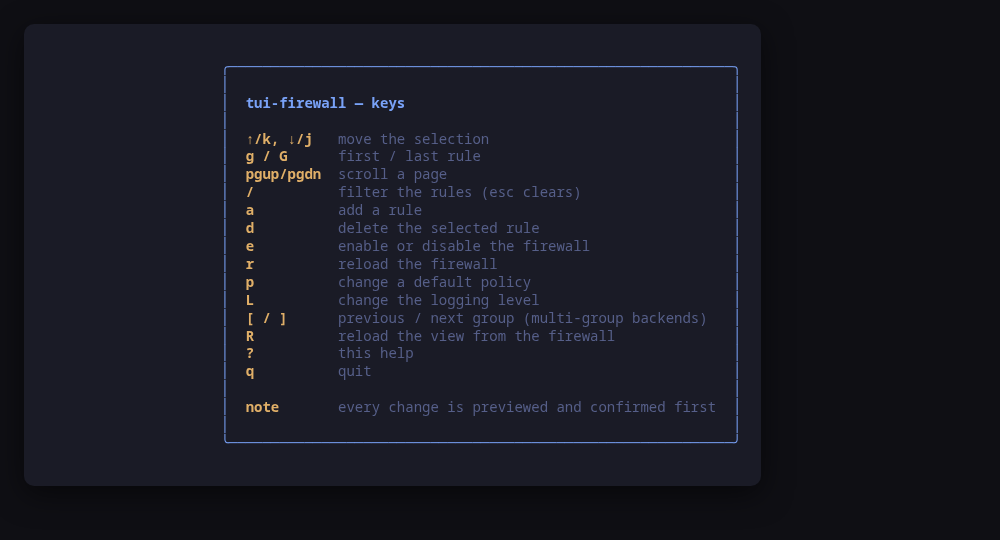
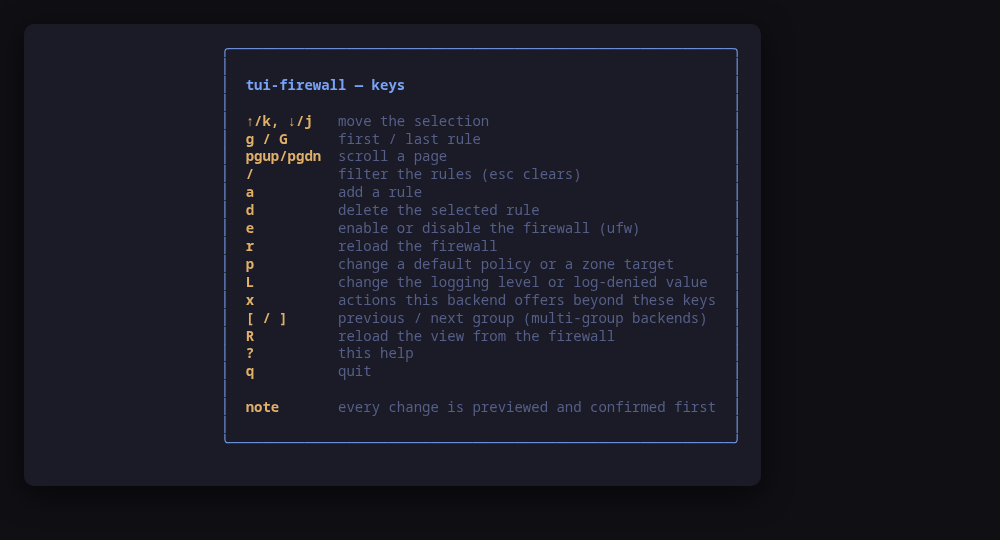
Document firewalld, and screenshot it
tool.json gains the firewalld backend block, so the binary probes its
version the way it already probes ufw's, and the README's compatibility
table is generated from the same place. The minimum is 0.9, the release that
introduced policy objects and intra-zone forwarding; everything else this
backend uses predates it, so there is nothing above the minimum worth a
feature gate. Two version notes are real and stay: firewalld 2.0.0 printed
the same settings for every zone in `--permanent --list-all-zones`, which is
exactly the read the runtime/permanent comparison depends on, and 2.2
removed the lockdown feature.

The demo alternates rather than replaces: `--demo` is still ufw, and
`--demo=firewalld` is an in-memory firewalld, so the screenshots cover both.
The two new frames are the ones only firewalld has — a zone with every entry
kind and its runtime/permanent markers, and the actions menu.

Claude-Session: https://claude.ai/code/session_0149Bf2QcorehfhYNNg27h5j

Changed region(s): [[0.217, 0.0889, 0.744, 0.563]]

diff --git a/README.md b/README.md
@@ -1,11 +1,15 @@
 <img src="assets/logo.png" alt="tui-firewall" width="240">
 
-A terminal UI for the Linux firewall. It shows the rules you actually have, and
-**previews the exact command line of every change before running it**.
+A terminal UI for the Linux firewall — **ufw** and **firewalld** — that shows
+the rules you actually have and **previews the exact command line of every
+change before running it**.
 
-`ufw` has no TUI: you get the CLI, or Gufw if you have a desktop. `tui-firewall`
+Neither firewall has a TUI: you get the CLI, or a desktop GUI. `tui-firewall`
 fills the gap on a server or a tiling desktop, in the
-[Omarchy](https://omarchy.org) visual style.
+[Omarchy](https://omarchy.org) visual style. It picks the backend your machine
+actually runs, and the screen is built from what that backend can do — one rule
+list and three default policies for ufw, one group per zone with its target for
+firewalld.
 
 ![Rules table](docs/screenshots/tui-firewall-main.png)
 
@@ -110,11 +114,15 @@ you quit.
 ## Try it without root
 
 ```sh
-tui-firewall --demo
+tui-firewall --demo             # an in-memory ufw
+tui-firewall --demo=firewalld   # an in-memory firewalld
 ```
 
 `--demo` runs against an in-memory sample firewall. Every key works, every
-command is built and previewed for real, and nothing touches your system.
+command is built and previewed for real, and nothing touches your system. The
+two demos are the two real backends over fake output, not two skins: the
+firewalld one parses firewalld-shaped text with the same parser and builds its
+commands with the same builder.
 
 ## Every change is previewed
 
@@ -128,9 +136,11 @@ is what executes.
 
 ```sh
 tui-firewall                      # drive the real firewall
-tui-firewall --demo               # sample data, no privileges needed
+tui-firewall --demo               # sample ufw data, no privileges needed
+tui-firewall --demo=firewalld     # sample firewalld data
 tui-firewall --check              # read the firewall, print JSON, exit
 tui-firewall --backend ufw        # skip autodetection
+tui-firewall --backend firewalld
 tui-firewall --theme ~/mytheme/colors.toml
 tui-firewall --sudo ""            # run the firewall command directly (as root)
 tui-firewall --version
@@ -156,18 +166,24 @@ $ sudo -n tui-firewall --check | head -8
 ```
 
 It exists so a test can assert on what the tool *parsed* rather than on what it
-painted — for instance that the rule count matches `ufw status numbered`, which
-is what catches a parser regression. On a machine running firewalld it exits
-non-zero with "not implemented yet", because that backend is still a stub.
+painted — for instance that the rule count matches `ufw status numbered`, or
+that a port added to the runtime configuration alone is reported as
+`"Note": "runtime only"`, which is what catches a parser regression.
+
+The report also carries a `backends` block naming every backend this tool
+knows and what the detector saw of it, so "firewalld was chosen" is
+distinguishable from "ufw is not installed" without running the detection
+again. The version is probed for the selected backend only: probing the other
+would run a binary nobody asked this tool to touch.
 
 [tui-lab](https://github.com/tui-tools/tui-lab) uses it to test this tool
 against real firewalls on Ubuntu, Fedora and Omarchy Server; the assertions live
 in [`test/smoke.sh`](test/smoke.sh).
 
-`tui-firewall` needs root to change anything. When it is not running as root it
-uses `sudo -n`, which never prompts: run `sudo -v` in another terminal first, or
-start `tui-firewall` with sudo. If neither `ufw` nor `sudo` is available, it
-says so and points at `--demo`.
+`tui-firewall` needs root to change anything, and to read anything on ufw. When
+it is not running as root it uses `sudo -n`, which never prompts: run `sudo -v`
+in another terminal first, or start `tui-firewall` with sudo. If neither
+firewall nor `sudo` is available, it says so and points at `--demo`.
 
 ## Keys
 
@@ -179,11 +195,12 @@ says so and points at `--demo`.
 | `/` | Filter rules (matches any column; `esc` clears) |
 | `a` | Add a rule |
 | `d` | Delete the selected rule |
-| `e` | Enable or disable the firewall |
+| `e` | Enable or disable the firewall (ufw only) |
 | `r` | Reload the firewall |
-| `p` | Change a default policy |
-| `L` | Change the logging level |
-| `[` / `]` | Previous / next group (multi-group backends only) |
+| `p` | Change a default policy (ufw) or a zone target (firewalld) |
+| `L` | Change the logging level (ufw) or the log-denied value (firewalld) |
+| `x` | Actions this backend offers beyond these keys |
+| `[` / `]` | Previous / next group — the firewalld zones and policy objects |
 | `R` | Re-read the firewall |
 | `?` | Help |
 | `q` | Quit |
@@ -198,30 +215,114 @@ text field, `esc` cancels.
 
 ![Help](docs/screenshots/tui-firewall-help.png)
 
+## firewalld
+
+![A firewalld zone](docs/screenshots/tui-firewall-firewalld.png)
+
+A firewalld zone holds several species of entry at once, so each row carries
+its **kind** — service, port, protocol, source port, forward port, bound
+source, assigned interface, masquerading, intra-zone forwarding, ICMP block,
+rich rule. The kind is what decides which flag removes it, which is why it is
+shown rather than flattened away.
+
+### Runtime and permanent, side by side
+
+firewalld keeps two configurations: the one enforced right now and the one that
+survives a reload or a reboot. They routinely differ — an interface
+NetworkManager assigned, a port someone added without `--permanent`, a change
+made permanently and not yet reloaded. `tui-firewall` reads both
+(`--list-all-zones` and the same with `--permanent`) and marks the difference in
+a **WHERE** column: nothing when an entry is in both, `runtime only` or
+`permanent only` when it is not.
+
+That also decides what a delete does. Removing an entry that exists in both
+issues both commands; removing one that exists in the runtime only issues the
+runtime command alone, because the permanent form would simply fail.
+
+### How a change is applied
+
+Every change runs **twice**: the command as it is, then the same command with
+`--permanent`. Both lines are in the confirm dialog, and nothing else runs.
+
+```console
+firewall-cmd --zone=public --add-service=wireguard
+firewall-cmd --permanent --zone=public --add-service=wireguard
+```
+
+The alternative — `--permanent` followed by `--reload` — was rejected on
+purpose: a reload rebuilds the rule set and can drop established connections,
+which is a bad thing to do to someone who just wanted to open a port over SSH.
+
+There is exactly one change firewalld has no runtime form for, the **zone
+target**: `--set-target` is permanent-only, so that change is written
+permanently and applied with a reload. The dialog says so before you confirm.
+
+### Actions beyond the shared keys
+
+![The firewalld actions menu](docs/screenshots/tui-firewall-firewalld-actions.png)
+
+`x` opens the actions a backend offers that the common key map has no place
+for. For firewalld those are: set the default zone, move an interface to
+another zone, bind a source address to this zone, turn masquerading on or off,
+turn **panic mode** on or off, and save the running configuration as permanent
+(`--runtime-to-permanent`). Each one previews its commands like any other
+change, and panic mode says in as many words that it drops the SSH session you
+are reading it in.
+
+The UI does not know what any of these mean: the backend describes them, the UI
+collects the answers and previews whatever comes back. That is the same reason
+`e` is absent on firewalld — starting and stopping a system service is
+`systemctl`'s job, and the tool says so instead of doing it quietly.
+
 ## What v0.1 can do
 
-- Read `ufw status verbose`, `ufw status numbered` and `ufw app list`.
-- Show status, default policies (incoming/outgoing/routed) and logging level.
-- List rules with action, direction, source, destination, ports, protocol,
-  app profile, address family and comment; IPv6 and `route` rules included.
-- Filter rules across every column.
-- Add a rule: action (allow/deny/reject/limit), direction, port or port list or
-  range, protocol, app profile, source and destination CIDR, comment, and
-  insertion at a given position.
-- Delete a rule by number, enable/disable, reload, change a default policy,
-  change the logging level.
+**Both backends**
+
+- Read the live firewall and show status, default policies and logging.
+- List rules with action, source, destination, ports, protocol, service,
+  address family and comment; filter across every column.
+- Add and delete rules, reload, change a default policy, change the logging
+  level — each previewed and confirmed first.
 - Follow the active Omarchy theme, and respect `NO_COLOR`.
+
+**ufw**
+
+- Read `ufw status verbose`, `ufw status numbered` and `ufw app list`.
+- Default policies for incoming, outgoing and routed traffic; `route` rules and
+  IPv6 rules included.
+- Add a rule with an action (allow/deny/reject/limit), a direction, a port,
+  port list or range, a protocol, an app profile, source and destination CIDR,
+  a comment, and insertion at a given position.
+- Enable and disable the firewall.
+
+**firewalld**
+
+- Read `--state`, `--get-default-zone`, `--get-active-zones`,
+  `--list-all-zones` (runtime and permanent), `--get-services`,
+  `--get-log-denied`, `--query-panic`, `--query-lockdown` and the policy
+  objects from `--get-policies`.
+- One group per zone, default zone first, then the other active zones; policy
+  objects follow as further groups.
+- Every entry kind, each marked runtime-only or permanent-only where they
+  differ, and each deletable with the right flag.
+- Add a service or a port; anything with an address, an address family, a
+  logging flag or a reject/drop verdict is built as a **rich rule** instead,
+  from the same guided form.
+- Zone target, log-denied value, reload, and the actions menu above.
 
 ## What v0.1 cannot do
 
-- **No firewalld yet.** The backend interface is in place and
-  `internal/firewalld` is a documented stub; selecting it reports that clearly.
 - **No rule editing.** Change a rule by deleting it and adding the new one.
-- **No interface qualifiers** (`ufw allow in on eth0 …`): they are parsed and
-  displayed, but the form cannot create them.
+- **No `ufw` interface qualifiers** (`ufw allow in on eth0 …`): they are parsed
+  and displayed, but the form cannot create them.
 - **No `ufw` application profile management** (only using existing profiles).
+- **No firewalld service, ipset or icmptype editing**, and no zone creation:
+  zones and services are used, not defined.
+- **A firewalld policy object is read-only-ish**: its entries are listed and can
+  be added and removed, but its target and its ingress/egress zones are not
+  editable here.
 - **No live log tail**, no packet counters, no nft view.
-- Rules are ordered by ufw's own numbering; there is no reordering key.
+- Rules follow the backend's own order; there is no reordering key.
 
 ## Compatibility
 
@@ -248,6 +349,20 @@ hidden; one below the minimum is marked as such and the tool still runs.
 | `<0.36` | `ufw status numbered` has no app profile column, so a rule added from a profile is shown by its ports and cannot be edited as a profile |
 | `0.36.x` | `status numbered` indexes IPv4 and IPv6 halves of one rule separately, so deleting by number renumbers the rest and the list is re-read after every delete |
 
+### firewalld
+
+| | |
+| --- | --- |
+| Binary | `firewall-cmd` |
+| Version read with | `firewall-cmd --version` |
+| Minimum | 0.9 |
+| Tested | none yet |
+
+| Versions | What changes |
+| --- | --- |
+| `==2.0.0` | `--permanent --list-all-zones` prints the same settings for every zone on this release (firewalld#1152), so the permanent half of the runtime/permanent comparison is not trustworthy; 2.0.1 fixed it |
+| `>=2.2` | firewalld removed the lockdown feature, so no lockdown state is shown |
+
 The tested versions are generated from `compat/results.jsonl`, which the tool's
 own smoke test appends to when it runs against a real machine in
 [tui-lab](https://github.com/tui-tools/tui-lab).
@@ -271,9 +386,13 @@ sudo = "sudo -n"
 theme = ""
 ```
 
-With `backend = "auto"`, tui-firewall prefers an installed backend whose system
-service is running, falls back to the first installed one, and otherwise exits
-with a message naming what to install.
+With `backend = "auto"`, `tui-firewall` takes the installed backend whose system
+service is running. If neither is running it takes the one systemd would start
+at boot (`systemctl is-enabled`), and if neither is enabled either, the first
+one installed — ufw before firewalld. Having both on one machine is a
+misconfiguration rather than a supported setup, so the tie-break exists to be
+predictable; name the one you mean when both are present. With nothing
+installed it exits with a message naming what to install.
 
 ## Theme
 
@@ -295,14 +414,24 @@ Rule{Action, Direction, Proto, Ports, From, To, Service, Comment, Family, Raw, E
 
 ufw exposes a single group (`rules`) carrying the global in/out/routed
 policies; the group selector stays hidden when there is only one. firewalld
-will expose one group per zone, with the zone target as its policy — the
-mapping is documented at the top of `internal/firewalld/firewalld.go`.
+exposes one group per zone with the zone target as its policy, plus one per
+policy object — the full mapping is documented at the top of
+`internal/firewalld/firewalld.go`.
 
-Mutations are `runner.Command` values produced by the backend. The UI shows
-them and, on confirmation, hands them back to the
+Mutations are `firewall.Change` values produced by the backend: an ordered list
+of `runner.Command`s with the description and the danger flag the dialog is
+painted from. The list exists because firewalld needs two invocations to apply
+one change, and making that a list rather than a hidden second exec keeps the
+promise intact — every line the dialog shows is a line that runs, and nothing
+else does. On confirmation the UI hands those commands back to the
 [kit runner](https://github.com/tui-tools/tui-kit#the-contract-preview-confirm-run),
 which resolves the binary and the privilege prefix. That is the whole trust
-boundary, and it is why the preview is guaranteed to match what executes.
+boundary.
+
+Everything else the UI shows is likewise the backend's answer, not a branch on
+its name: which actions the add form offers, whether `e` exists at all, whether
+rows carry a kind, what the logging concept is called, and what the `x` menu
+holds. `grep firewalld cmd/` finds a test and nothing more.
 
 ## Development
 
@@ -323,7 +452,7 @@ widgets, the config loader and the command runner shared by the whole family.
 [The-Robin-Hood/ufWall](https://github.com/The-Robin-Hood/ufWall) is an earlier
 Go + Bubble Tea TUI for ufw (MIT, early-stage, inactive since March 2026);
 `tui-firewall` is an independent implementation with its own parsers and a
-backend-agnostic core aimed at covering firewalld as well.
+backend-agnostic core that covers firewalld as well.
 
 ## Safety notes
 
@@ -332,6 +461,12 @@ backend-agnostic core aimed at covering firewalld as well.
 - `ufw enable` and `ufw delete` are run with `--force`, because ufw's own
   interactive prompt cannot be answered from inside a TUI. The confirm dialog
   replaces it.
+- **firewalld panic mode drops every packet**, including your own session, and
+  is offered behind an explicit warning. It is not permanent: restarting
+  firewalld clears it.
+- A firewalld **reload** replaces the running configuration with the permanent
+  one, so anything that was runtime-only is lost. That is why ordinary changes
+  here do not reload.
 - `tui-firewall` re-reads the firewall after every change, so what you see is
   what the system reports, not what the tool assumed.
 
